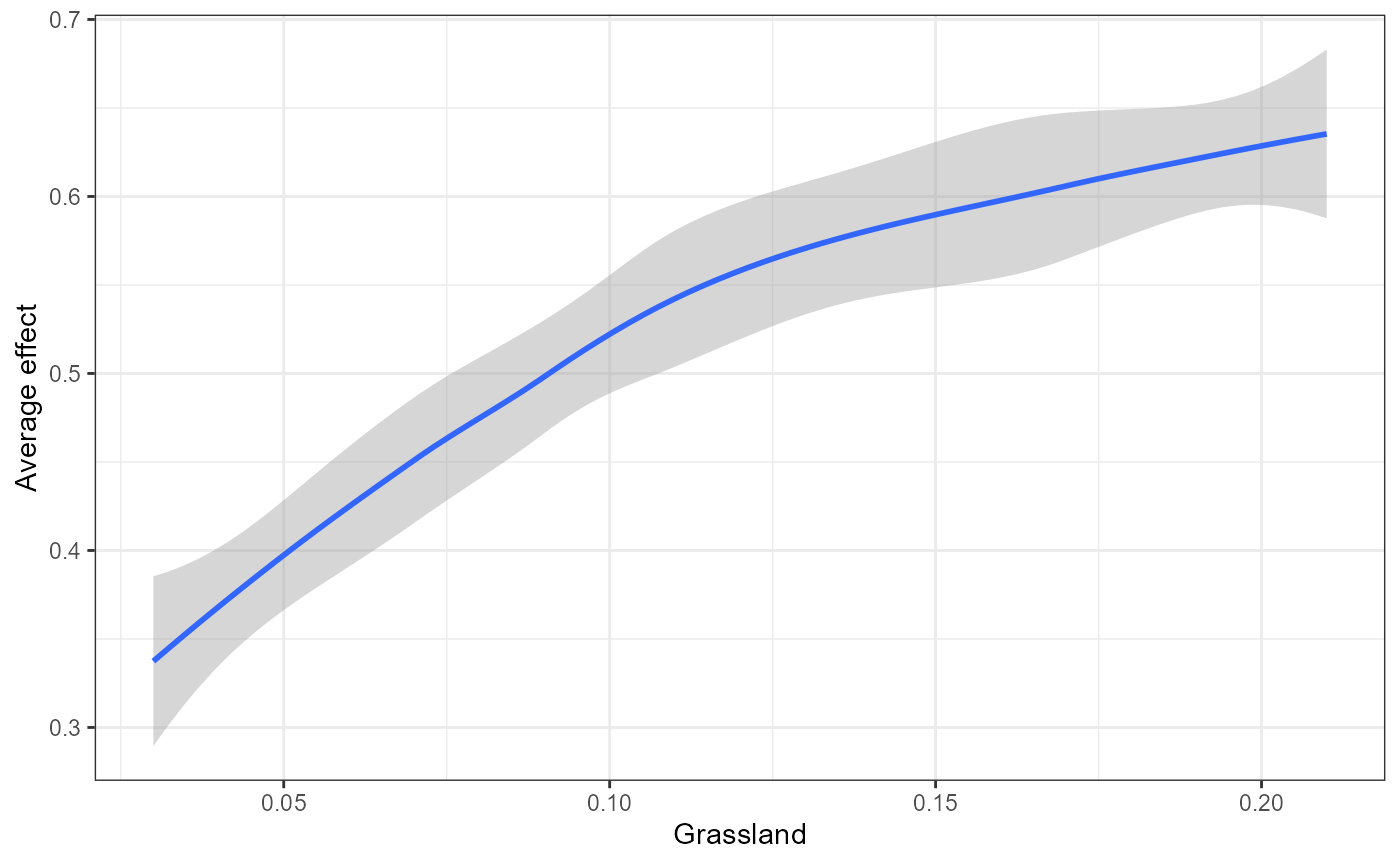
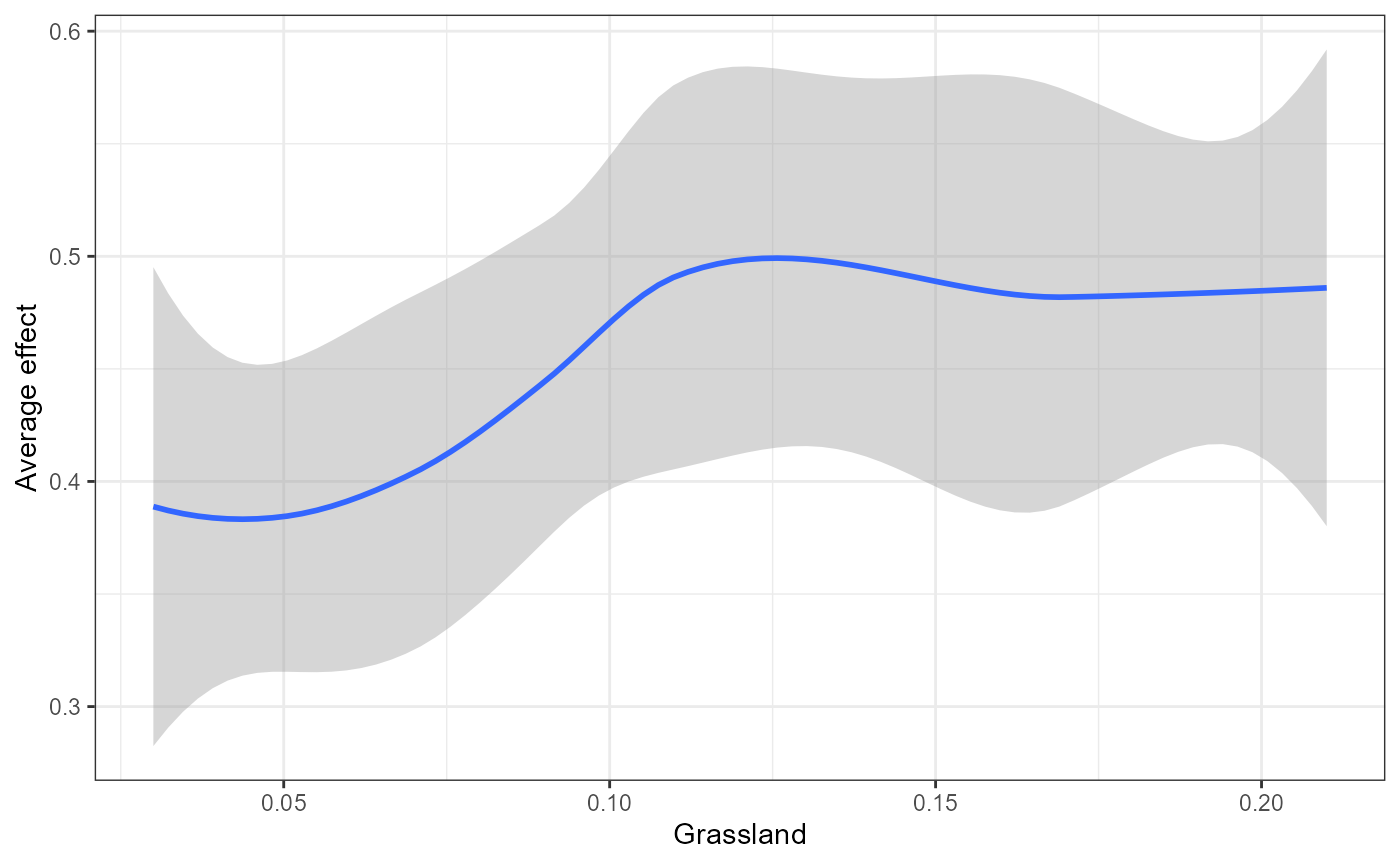
added funding

diff --git a/docs/articles/Vignette_LandscapeGenetics.html b/docs/articles/Vignette_LandscapeGenetics.html
@@ -101,7 +101,7 @@
       <h1 data-toc-skip>Classification working example</h1>
                         <h4 class="author">Nick Fountain-Jones, Gustavo Machado</h4>
             
-            <h4 class="date">2021-05-24</h4>
+            <h4 class="date">2021-05-25</h4>
       
       <small class="dont-index">Source: <a href="https://github.com/nfj1380/mrIML/blob/master/vignettes/Vignette_LandscapeGenetics.Rmd"><code>vignettes/Vignette_LandscapeGenetics.Rmd</code></a></small>
       <div class="hidden name"><code>Vignette_LandscapeGenetics.Rmd</code></div>
@@ -162,66 +162,66 @@
 <code class="sourceCode R">
 <span class="va">ModelPerf</span> <span class="op">&lt;-</span> <span class="fu"><a href="../reference/mrIMLperformance.html">mrIMLperformance</a></span><span class="op">(</span><span class="va">yhats</span>, <span class="va">model1</span>, X<span class="op">=</span><span class="va">X</span>,  model<span class="op">=</span><span class="st">'classification'</span><span class="op">)</span> 
 <span class="va">ModelPerf</span><span class="op">[[</span><span class="fl">1</span><span class="op">]</span><span class="op">]</span> <span class="co">#predictive performance for individual responses </span>
-<span class="co">#&gt;    response  model_name roc_AUC               mcc       sensitivity</span>
-<span class="co">#&gt; 1   env_131 rand_forest     0.5 0.612372435695795               0.5</span>
-<span class="co">#&gt; 2   env_163 rand_forest     0.5              &lt;NA&gt;                 0</span>
-<span class="co">#&gt; 3   env_164 rand_forest       1 0.666666666666667 0.666666666666667</span>
-<span class="co">#&gt; 4   env_167 rand_forest     0.5 0.408248290463863               0.5</span>
-<span class="co">#&gt; 5   env_169 rand_forest     0.5              &lt;NA&gt;                 1</span>
-<span class="co">#&gt; 6   env_212 rand_forest     0.5              &lt;NA&gt;                 0</span>
-<span class="co">#&gt; 7    env_23 rand_forest       1 0.612372435695795                 1</span>
-<span class="co">#&gt; 8    env_24 rand_forest     0.5              &lt;NA&gt;                 1</span>
-<span class="co">#&gt; 9    env_47 rand_forest       1 0.666666666666667                 1</span>
-<span class="co">#&gt; 10   env_59 rand_forest     0.5              &lt;NA&gt;                 1</span>
-<span class="co">#&gt; 11    env_8 rand_forest    0.25              0.25                 1</span>
-<span class="co">#&gt; 12   env_84 rand_forest     0.5              &lt;NA&gt;                 1</span>
-<span class="co">#&gt; 13   env_85 rand_forest     0.5              &lt;NA&gt;                 1</span>
-<span class="co">#&gt; 14   env_86 rand_forest     0.5              0.25              0.25</span>
-<span class="co">#&gt; 15  pol_105 rand_forest     0.5              &lt;NA&gt;                 1</span>
-<span class="co">#&gt; 16  pol_108 rand_forest     0.5              &lt;NA&gt;                 1</span>
-<span class="co">#&gt; 17  pol_111 rand_forest       1 0.666666666666667 0.666666666666667</span>
-<span class="co">#&gt; 18  pol_117 rand_forest     0.5              &lt;NA&gt;                 1</span>
-<span class="co">#&gt; 19  pol_132 rand_forest       1 0.666666666666667                 1</span>
-<span class="co">#&gt; 20  pol_159 rand_forest     0.5              &lt;NA&gt;                 1</span>
-<span class="co">#&gt; 21  pol_258 rand_forest     0.5              &lt;NA&gt;                 0</span>
-<span class="co">#&gt; 22   pol_30 rand_forest       1 0.666666666666667                 1</span>
-<span class="co">#&gt; 23  pol_340 rand_forest     0.5              &lt;NA&gt;                 1</span>
-<span class="co">#&gt; 24  pol_353 rand_forest     0.5              0.25              0.25</span>
-<span class="co">#&gt; 25  pol_366 rand_forest     0.5              &lt;NA&gt;                 1</span>
-<span class="co">#&gt; 26   pol_87 rand_forest       1 0.666666666666667                 1</span>
-<span class="co">#&gt; 27   pol_88 rand_forest       1 0.666666666666667                 1</span>
-<span class="co">#&gt; 28   pol_89 rand_forest       1 0.666666666666667                 1</span>
+<span class="co">#&gt;    response  model_name           roc_AUC                mcc       sensitivity</span>
+<span class="co">#&gt; 1   env_131 rand_forest              0.75  0.612372435695795              0.75</span>
+<span class="co">#&gt; 2   env_163 rand_forest 0.333333333333333 -0.408248290463863                 0</span>
+<span class="co">#&gt; 3   env_164 rand_forest                 1                  1                 1</span>
+<span class="co">#&gt; 4   env_167 rand_forest              0.75              -0.25              0.75</span>
+<span class="co">#&gt; 5   env_169 rand_forest               0.5               &lt;NA&gt;                 0</span>
+<span class="co">#&gt; 6   env_212 rand_forest              0.75  0.612372435695795                 1</span>
+<span class="co">#&gt; 7    env_23 rand_forest               0.5               &lt;NA&gt;                 0</span>
+<span class="co">#&gt; 8    env_24 rand_forest               0.5               &lt;NA&gt;                 1</span>
+<span class="co">#&gt; 9    env_47 rand_forest                 1  0.666666666666667                 1</span>
+<span class="co">#&gt; 10   env_59 rand_forest               0.5               &lt;NA&gt;                 0</span>
+<span class="co">#&gt; 11    env_8 rand_forest               0.5               &lt;NA&gt;                 1</span>
+<span class="co">#&gt; 12   env_84 rand_forest               0.5               &lt;NA&gt;                 0</span>
+<span class="co">#&gt; 13   env_85 rand_forest               0.5               &lt;NA&gt;                 0</span>
+<span class="co">#&gt; 14   env_86 rand_forest               0.5               &lt;NA&gt;                 1</span>
+<span class="co">#&gt; 15  pol_105 rand_forest                 1  0.666666666666667 0.666666666666667</span>
+<span class="co">#&gt; 16  pol_108 rand_forest                 1  0.666666666666667 0.666666666666667</span>
+<span class="co">#&gt; 17  pol_111 rand_forest                 1                  1                 1</span>
+<span class="co">#&gt; 18  pol_117 rand_forest 0.833333333333333  0.666666666666667 0.666666666666667</span>
+<span class="co">#&gt; 19  pol_132 rand_forest                 1  0.666666666666667                 1</span>
+<span class="co">#&gt; 20  pol_159 rand_forest               0.5               &lt;NA&gt;                 1</span>
+<span class="co">#&gt; 21  pol_258 rand_forest               0.5               &lt;NA&gt;                 1</span>
+<span class="co">#&gt; 22   pol_30 rand_forest                 1  0.666666666666667                 1</span>
+<span class="co">#&gt; 23  pol_340 rand_forest 0.333333333333333 -0.666666666666667 0.333333333333333</span>
+<span class="co">#&gt; 24  pol_353 rand_forest               0.5               &lt;NA&gt;                 1</span>
+<span class="co">#&gt; 25  pol_366 rand_forest               0.5               &lt;NA&gt;                 0</span>
+<span class="co">#&gt; 26   pol_87 rand_forest                 1  0.666666666666667                 1</span>
+<span class="co">#&gt; 27   pol_88 rand_forest                 1  0.666666666666667                 1</span>
+<span class="co">#&gt; 28   pol_89 rand_forest                 1  0.666666666666667                 1</span>
 <span class="co">#&gt;          specificity        prevalence</span>
 <span class="co">#&gt; 1                  1 0.421052631578947</span>
-<span class="co">#&gt; 2                  1 0.631578947368421</span>
+<span class="co">#&gt; 2  0.666666666666667 0.631578947368421</span>
 <span class="co">#&gt; 3                  1 0.421052631578947</span>
-<span class="co">#&gt; 4                  1 0.421052631578947</span>
-<span class="co">#&gt; 5                  0 0.421052631578947</span>
-<span class="co">#&gt; 6                  1 0.684210526315789</span>
-<span class="co">#&gt; 7               0.75 0.631578947368421</span>
+<span class="co">#&gt; 4                  0 0.421052631578947</span>
+<span class="co">#&gt; 5                  1 0.421052631578947</span>
+<span class="co">#&gt; 6               0.75 0.684210526315789</span>
+<span class="co">#&gt; 7                  1 0.631578947368421</span>
 <span class="co">#&gt; 8                  0 0.421052631578947</span>
 <span class="co">#&gt; 9  0.666666666666667 0.473684210526316</span>
-<span class="co">#&gt; 10                 0 0.421052631578947</span>
-<span class="co">#&gt; 11              0.25 0.473684210526316</span>
-<span class="co">#&gt; 12                 0 0.421052631578947</span>
-<span class="co">#&gt; 13                 0 0.421052631578947</span>
-<span class="co">#&gt; 14                 1 0.421052631578947</span>
-<span class="co">#&gt; 15                 0 0.473684210526316</span>
-<span class="co">#&gt; 16                 0 0.421052631578947</span>
+<span class="co">#&gt; 10                 1 0.421052631578947</span>
+<span class="co">#&gt; 11                 0 0.473684210526316</span>
+<span class="co">#&gt; 12                 1 0.421052631578947</span>
+<span class="co">#&gt; 13                 1 0.421052631578947</span>
+<span class="co">#&gt; 14                 0 0.421052631578947</span>
+<span class="co">#&gt; 15                 1 0.473684210526316</span>
+<span class="co">#&gt; 16                 1 0.421052631578947</span>
 <span class="co">#&gt; 17                 1 0.421052631578947</span>
-<span class="co">#&gt; 18                 0 0.473684210526316</span>
+<span class="co">#&gt; 18                 1 0.473684210526316</span>
 <span class="co">#&gt; 19 0.666666666666667 0.473684210526316</span>
 <span class="co">#&gt; 20                 0 0.473684210526316</span>
-<span class="co">#&gt; 21                 1 0.473684210526316</span>
+<span class="co">#&gt; 21                 0 0.473684210526316</span>
 <span class="co">#&gt; 22 0.666666666666667 0.473684210526316</span>
 <span class="co">#&gt; 23                 0 0.421052631578947</span>
-<span class="co">#&gt; 24                 1 0.421052631578947</span>
-<span class="co">#&gt; 25                 0 0.421052631578947</span>
+<span class="co">#&gt; 24                 0 0.421052631578947</span>
+<span class="co">#&gt; 25                 1 0.421052631578947</span>
 <span class="co">#&gt; 26 0.666666666666667 0.473684210526316</span>
 <span class="co">#&gt; 27 0.666666666666667 0.473684210526316</span>
 <span class="co">#&gt; 28 0.666666666666667 0.473684210526316</span>
 <span class="va">ModelPerf</span><span class="op">[[</span><span class="fl">2</span><span class="op">]</span><span class="op">]</span><span class="co">#overall predictive performance</span>
-<span class="co">#&gt; [1] 0.6517857</span></code></pre></div>
+<span class="co">#&gt; [1] 0.7053571</span></code></pre></div>
 <p>You can compare the predictive performance of random forests with any other technique simply by altering the following. Lets try a logistic regression - no tuning of hyperparamters required. Note that for logistic regression you may need to scale/transform the data or create dummy variables if you include categorical variables. These steps can easily be added to the pipeline following tidymodel syntax (see the website above)</p>
 <div class="sourceCode" id="cb6"><pre class="downlit sourceCode r">
 <code class="sourceCode R"><span class="va">model1</span> <span class="op">&lt;-</span> <span class="co">#model used to generate yhat</span>
@@ -233,7 +233,7 @@
 <span class="co">#save(yhats, file='logreg_model')</span>
 <span class="va">ModelPerf</span> <span class="op">&lt;-</span> <span class="fu"><a href="../reference/mrIMLperformance.html">mrIMLperformance</a></span><span class="op">(</span><span class="va">yhats</span>, <span class="va">model1</span>, X<span class="op">=</span><span class="va">X</span><span class="op">)</span> <span class="co">#</span>
 <span class="va">ModelPerf</span><span class="op">[[</span><span class="fl">2</span><span class="op">]</span><span class="op">]</span>
-<span class="co">#&gt; [1] 0.65</span></code></pre></div>
+<span class="co">#&gt; [1] 0.3571429</span></code></pre></div>
 </div>
 <div id="plotting" class="section level2">
 <h2 class="hasAnchor">

diff --git a/docs/articles/Vignette_regression.html b/docs/articles/Vignette_regression.html
@@ -101,7 +101,7 @@
       <h1 data-toc-skip>Regression working example</h1>
                         <h4 class="author">Nick Fountain-Jones, Gustavo Machado</h4>
             
-            <h4 class="date">2021-05-24</h4>
+            <h4 class="date">2021-05-25</h4>
       
       <small class="dont-index">Source: <a href="https://github.com/nfj1380/mrIML/blob/master/vignettes/Vignette_regression.Rmd"><code>vignettes/Vignette_regression.Rmd</code></a></small>
       <div class="hidden name"><code>Vignette_regression.Rmd</code></div>
@@ -139,29 +139,29 @@
 <div class="sourceCode" id="cb2"><pre class="downlit sourceCode r">
 <code class="sourceCode R"><span class="va">ModelPerf</span> <span class="op">&lt;-</span> <span class="fu"><a href="../reference/mrIMLperformance.html">mrIMLperformance</a></span><span class="op">(</span><span class="va">yhats</span>, <span class="va">model1</span>, X<span class="op">=</span><span class="va">X</span>, model<span class="op">=</span><span class="st">'regression'</span><span class="op">)</span>
 <span class="va">ModelPerf</span><span class="op">[[</span><span class="fl">1</span><span class="op">]</span><span class="op">]</span> <span class="co">#predictive performance for individual responses. </span>
-<span class="co">#&gt;              response model_name       rmse   rsquared</span>
-<span class="co">#&gt; 1   CANDIDATE_GI5_108 linear_reg 0.05140210 0.32086336</span>
-<span class="co">#&gt; 2   CANDIDATE_GI5_198 linear_reg 0.10040891 0.63685403</span>
-<span class="co">#&gt; 3   CANDIDATE_GI5_268 linear_reg 0.07312041 0.31620837</span>
-<span class="co">#&gt; 4    CANDIDATE_GI5_92 linear_reg 0.12841117 0.36772582</span>
-<span class="co">#&gt; 5  CANDIDATE_GI5_1950 linear_reg 0.14300687 0.69455967</span>
-<span class="co">#&gt; 6  CANDIDATE_GI5_2382 linear_reg 0.07684781 0.02934969</span>
-<span class="co">#&gt; 7  CANDIDATE_GI5_2405 linear_reg 0.09133748 0.72272692</span>
-<span class="co">#&gt; 8  CANDIDATE_GI5_2612 linear_reg 0.14805294 0.80639613</span>
-<span class="co">#&gt; 9  CANDIDATE_GI5_2641 linear_reg 0.06096575 0.36462597</span>
-<span class="co">#&gt; 10   CANDIDATE_GI5_33 linear_reg 0.10845947 0.72032795</span>
-<span class="co">#&gt; 11 CANDIDATE_GI5_3966 linear_reg 0.09873997 0.55769186</span>
-<span class="co">#&gt; 12 CANDIDATE_GI5_5033 linear_reg 0.04875404 0.20518222</span>
-<span class="co">#&gt; 13 CANDIDATE_GI5_5090 linear_reg 0.15427140 0.73976959</span>
-<span class="co">#&gt; 14 CANDIDATE_GI5_5119 linear_reg 0.10099845 0.14327423</span>
-<span class="co">#&gt; 15 CANDIDATE_GI5_8997 linear_reg 0.13196449 0.63950882</span>
-<span class="co">#&gt; 16 CANDIDATE_GI5_9287 linear_reg 0.06056757 0.02368671</span>
-<span class="co">#&gt; 17 CANDIDATE_GI5_9447 linear_reg 0.09892546 0.37426733</span>
-<span class="co">#&gt; 18 CANDIDATE_GI5_9551 linear_reg 0.12044718 0.55240319</span>
-<span class="co">#&gt; 19 CANDIDATE_GI5_9585 linear_reg 0.12962126 0.60005614</span>
-<span class="co">#&gt; 20 CANDIDATE_GI5_9659 linear_reg 0.13057423 0.64584205</span>
+<span class="co">#&gt;              response model_name       rmse    rsquared</span>
+<span class="co">#&gt; 1   CANDIDATE_GI5_108 linear_reg 0.03835979 0.243774145</span>
+<span class="co">#&gt; 2   CANDIDATE_GI5_198 linear_reg 0.08384524 0.524503183</span>
+<span class="co">#&gt; 3   CANDIDATE_GI5_268 linear_reg 0.06433845 0.325373732</span>
+<span class="co">#&gt; 4    CANDIDATE_GI5_92 linear_reg 0.08635783 0.184115906</span>
+<span class="co">#&gt; 5  CANDIDATE_GI5_1950 linear_reg 0.09184331 0.279927551</span>
+<span class="co">#&gt; 6  CANDIDATE_GI5_2382 linear_reg 0.07769331 0.252400223</span>
+<span class="co">#&gt; 7  CANDIDATE_GI5_2405 linear_reg 0.08855808 0.394006164</span>
+<span class="co">#&gt; 8  CANDIDATE_GI5_2612 linear_reg 0.11216310 0.219169079</span>
+<span class="co">#&gt; 9  CANDIDATE_GI5_2641 linear_reg 0.06364151 0.545777982</span>
+<span class="co">#&gt; 10   CANDIDATE_GI5_33 linear_reg 0.12351337 0.066325726</span>
+<span class="co">#&gt; 11 CANDIDATE_GI5_3966 linear_reg 0.11601578 0.236108203</span>
+<span class="co">#&gt; 12 CANDIDATE_GI5_5033 linear_reg 0.04540636          NA</span>
+<span class="co">#&gt; 13 CANDIDATE_GI5_5090 linear_reg 0.04745491 0.858686038</span>
+<span class="co">#&gt; 14 CANDIDATE_GI5_5119 linear_reg 0.08846561 0.001637093</span>
+<span class="co">#&gt; 15 CANDIDATE_GI5_8997 linear_reg 0.09281004 0.473212328</span>
+<span class="co">#&gt; 16 CANDIDATE_GI5_9287 linear_reg 0.08345842 0.228629226</span>
+<span class="co">#&gt; 17 CANDIDATE_GI5_9447 linear_reg 0.07477987 0.137382244</span>
+<span class="co">#&gt; 18 CANDIDATE_GI5_9551 linear_reg 0.09267761 0.312091774</span>
+<span class="co">#&gt; 19 CANDIDATE_GI5_9585 linear_reg 0.08369912 0.482312665</span>
+<span class="co">#&gt; 20 CANDIDATE_GI5_9659 linear_reg 0.07074250 0.529936505</span>
 <span class="va">ModelPerf</span><span class="op">[[</span><span class="fl">2</span><span class="op">]</span><span class="op">]</span><span class="co">#overall average r2 </span>
-<span class="co">#&gt; [1] 0.1028438</span>
+<span class="co">#&gt; [1] 0.08129121</span>
 
 <span class="va">p1</span> <span class="op">&lt;-</span> <span class="fu"><a href="https://rdrr.io/r/base/as.data.frame.html">as.data.frame</a></span><span class="op">(</span><span class="va">ModelPerf</span><span class="op">[[</span><span class="fl">1</span><span class="op">]</span><span class="op">]</span><span class="op">)</span><span class="co">#save as a dataframe to compare to other models.</span></code></pre></div>
 <p>Lets compare the performance of linear models to that of random forests. Random forests is the computational engine in gradient forests. Notice for random forests we have two hyperparamters to tune; mtry (number of features to randomly include at each split) and min_n (the minimum number of data points in a node that are required for the node to be split further). The syntax ‘tune()’ acts a placeholder to tell MrIML to tune those hyperparamters across a grid of values (defined in MRIML predicts ‘tune_grid_size’ argument). Different algorithms will have different hyperparameters.See <a href="https://www.tidymodels.org/find/parsnip/" class="uri">https://www.tidymodels.org/find/parsnip/</a> for parameter details. Note that large grid sizes (&gt;10) for algorithms with lots of hyperparameters (such as extreme gradient boosting) will be computationally demanding. In this case we choose a grid size of 5.</p>
@@ -178,28 +178,28 @@
 <span class="va">ModelPerf</span> <span class="op">&lt;-</span> <span class="fu"><a href="../reference/mrIMLperformance.html">mrIMLperformance</a></span><span class="op">(</span><span class="va">yhats</span>, <span class="va">model1</span>, X<span class="op">=</span><span class="va">X</span>, model<span class="op">=</span><span class="st">'regression'</span><span class="op">)</span>
 <span class="va">ModelPerf</span><span class="op">[[</span><span class="fl">1</span><span class="op">]</span><span class="op">]</span> <span class="co">#predictive performance for individual responses. </span>
 <span class="co">#&gt;              response  model_name       rmse   rsquared</span>
-<span class="co">#&gt; 1   CANDIDATE_GI5_108 rand_forest 0.04730086 0.13127795</span>
-<span class="co">#&gt; 2   CANDIDATE_GI5_198 rand_forest 0.11248227 0.50237556</span>
-<span class="co">#&gt; 3   CANDIDATE_GI5_268 rand_forest 0.07303428 0.24190092</span>
-<span class="co">#&gt; 4    CANDIDATE_GI5_92 rand_forest 0.01490540         NA</span>
-<span class="co">#&gt; 5  CANDIDATE_GI5_1950 rand_forest 0.09748164 0.38619977</span>
-<span class="co">#&gt; 6  CANDIDATE_GI5_2382 rand_forest 0.07402223 0.20616913</span>
-<span class="co">#&gt; 7  CANDIDATE_GI5_2405 rand_forest 0.10272695 0.37370283</span>
-<span class="co">#&gt; 8  CANDIDATE_GI5_2612 rand_forest 0.11132303 0.27187867</span>
-<span class="co">#&gt; 9  CANDIDATE_GI5_2641 rand_forest 0.07754583 0.04542274</span>
-<span class="co">#&gt; 10   CANDIDATE_GI5_33 rand_forest 0.10460088 0.23672108</span>
-<span class="co">#&gt; 11 CANDIDATE_GI5_3966 rand_forest 0.10884858 0.50679334</span>
-<span class="co">#&gt; 12 CANDIDATE_GI5_5033 rand_forest 0.02417244         NA</span>
-<span class="co">#&gt; 13 CANDIDATE_GI5_5090 rand_forest 0.03776317 0.41558777</span>
-<span class="co">#&gt; 14 CANDIDATE_GI5_5119 rand_forest 0.04418422         NA</span>
-<span class="co">#&gt; 15 CANDIDATE_GI5_8997 rand_forest 0.09707338 0.61523641</span>
-<span class="co">#&gt; 16 CANDIDATE_GI5_9287 rand_forest 0.03906917         NA</span>
-<span class="co">#&gt; 17 CANDIDATE_GI5_9447 rand_forest 0.03975091         NA</span>
-<span class="co">#&gt; 18 CANDIDATE_GI5_9551 rand_forest 0.11882628 0.49496046</span>
-<span class="co">#&gt; 19 CANDIDATE_GI5_9585 rand_forest 0.12679966 0.44943999</span>
-<span class="co">#&gt; 20 CANDIDATE_GI5_9659 rand_forest 0.10169553 0.36212379</span>
+<span class="co">#&gt; 1   CANDIDATE_GI5_108 rand_forest 0.04477488 0.19302771</span>
+<span class="co">#&gt; 2   CANDIDATE_GI5_198 rand_forest 0.10968639 0.17979361</span>
+<span class="co">#&gt; 3   CANDIDATE_GI5_268 rand_forest 0.07873354 0.28784670</span>
+<span class="co">#&gt; 4    CANDIDATE_GI5_92 rand_forest 0.07289040         NA</span>
+<span class="co">#&gt; 5  CANDIDATE_GI5_1950 rand_forest 0.10089948 0.01472163</span>
+<span class="co">#&gt; 6  CANDIDATE_GI5_2382 rand_forest 0.05309705 0.01019130</span>
+<span class="co">#&gt; 7  CANDIDATE_GI5_2405 rand_forest 0.08870441 0.11177347</span>
+<span class="co">#&gt; 8  CANDIDATE_GI5_2612 rand_forest 0.12536564 0.22369245</span>
+<span class="co">#&gt; 9  CANDIDATE_GI5_2641 rand_forest 0.07227804         NA</span>
+<span class="co">#&gt; 10   CANDIDATE_GI5_33 rand_forest 0.14041716 0.10361401</span>
+<span class="co">#&gt; 11 CANDIDATE_GI5_3966 rand_forest 0.09576930 0.33204723</span>
+<span class="co">#&gt; 12 CANDIDATE_GI5_5033 rand_forest 0.04472941 0.57124671</span>
+<span class="co">#&gt; 13 CANDIDATE_GI5_5090 rand_forest 0.11003558 0.47123618</span>
+<span class="co">#&gt; 14 CANDIDATE_GI5_5119 rand_forest 0.10076549         NA</span>
+<span class="co">#&gt; 15 CANDIDATE_GI5_8997 rand_forest 0.11454881 0.08124621</span>
+<span class="co">#&gt; 16 CANDIDATE_GI5_9287 rand_forest 0.03240375 0.58654549</span>
+<span class="co">#&gt; 17 CANDIDATE_GI5_9447 rand_forest 0.04704060         NA</span>
+<span class="co">#&gt; 18 CANDIDATE_GI5_9551 rand_forest 0.11726631 0.13385906</span>
+<span class="co">#&gt; 19 CANDIDATE_GI5_9585 rand_forest 0.12971736 0.08440882</span>
+<span class="co">#&gt; 20 CANDIDATE_GI5_9659 rand_forest 0.10347546 0.01695007</span>
 <span class="va">ModelPerf</span><span class="op">[[</span><span class="fl">2</span><span class="op">]</span><span class="op">]</span><span class="co">#overall average r2 </span>
-<span class="co">#&gt; [1] 0.07768034</span>
+<span class="co">#&gt; [1] 0.08912995</span>
 
 <span class="va">p2</span> <span class="op">&lt;-</span> <span class="fu"><a href="https://rdrr.io/r/base/as.data.frame.html">as.data.frame</a></span><span class="op">(</span><span class="va">ModelPerf</span><span class="op">[[</span><span class="fl">1</span><span class="op">]</span><span class="op">]</span><span class="op">)</span></code></pre></div>
 </div>

diff --git a/docs/articles/Vignette_biosecurity.html b/docs/articles/Vignette_biosecurity.html
@@ -101,7 +101,7 @@
       <h1 data-toc-skip>Biosecurity working example</h1>
                         <h4 class="author">Abagael Sykes, Gustavo Machado</h4>
             
-            <h4 class="date">2021-05-24</h4>
+            <h4 class="date">2021-05-25</h4>
       
       <small class="dont-index">Source: <a href="https://github.com/nfj1380/mrIML/blob/master/vignettes/Vignette_biosecurity.Rmd"><code>vignettes/Vignette_biosecurity.Rmd</code></a></small>
       <div class="hidden name"><code>Vignette_biosecurity.Rmd</code></div>
@@ -248,6 +248,7 @@
 <code class="sourceCode R"><span class="va">LE_indiv_plots</span><span class="op">[</span><span class="fl">2</span><span class="op">]</span>
 <span class="co">#&gt; [[1]]</span></code></pre></div>
 <p><img src="Vignette_biosecurity_files/figure-html/unnamed-chunk-6-2.png" width="1248"> At the positive farm we can see that yards from the public road and garbage collection are contributing to an increased outbreak risk, while manure removals and repair visits are contributing to a decreased outbreak risk. Likewise, at the negative farm yards to the public road and and the downtime required for manure removal personnel are contributing to an increased outbreak risk, while feed deliveries and manure removals are contributing to a decreased outbreak risk.</p>
+<p>This session of the MrIML has been funded by Critical Agricultural Research and Extension 2019-68008-29910 from the USDA National Institute of Food and Agriculture and is a join effort by <a href="https://fieldepi.research.cvm.iastate.edu/">Dr. Linhares group</a> at Iowa State University and <a href="https://machado-lab.github.io/">Dr. Machado group</a> at North Carolina State University</p>
 </div>
 </div>
   </div>
